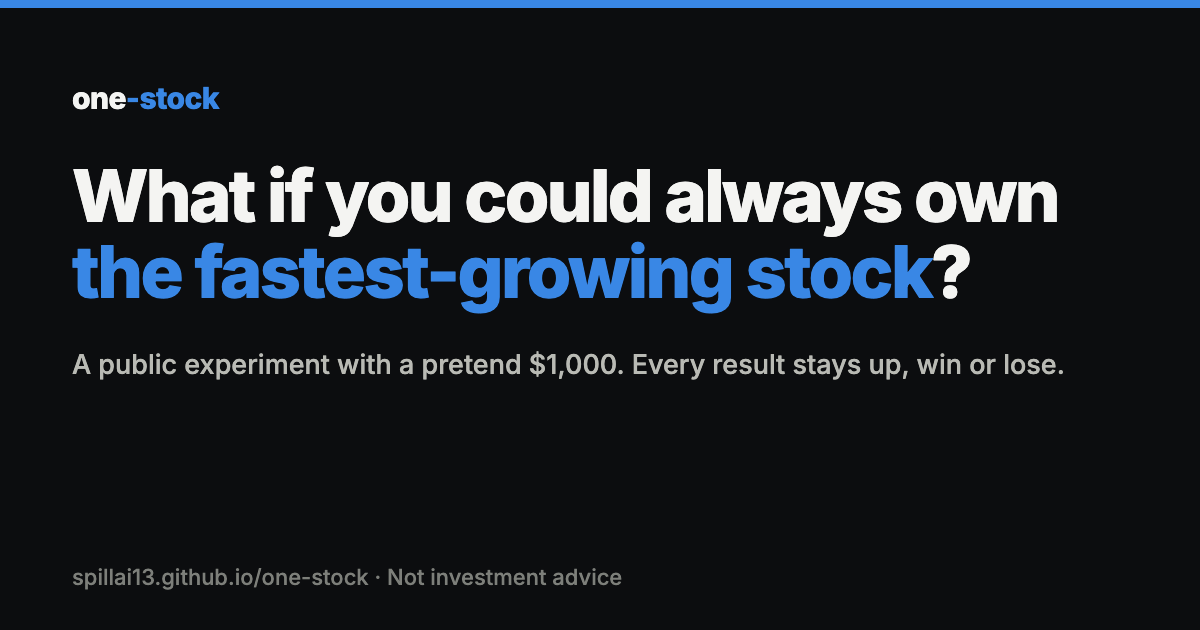
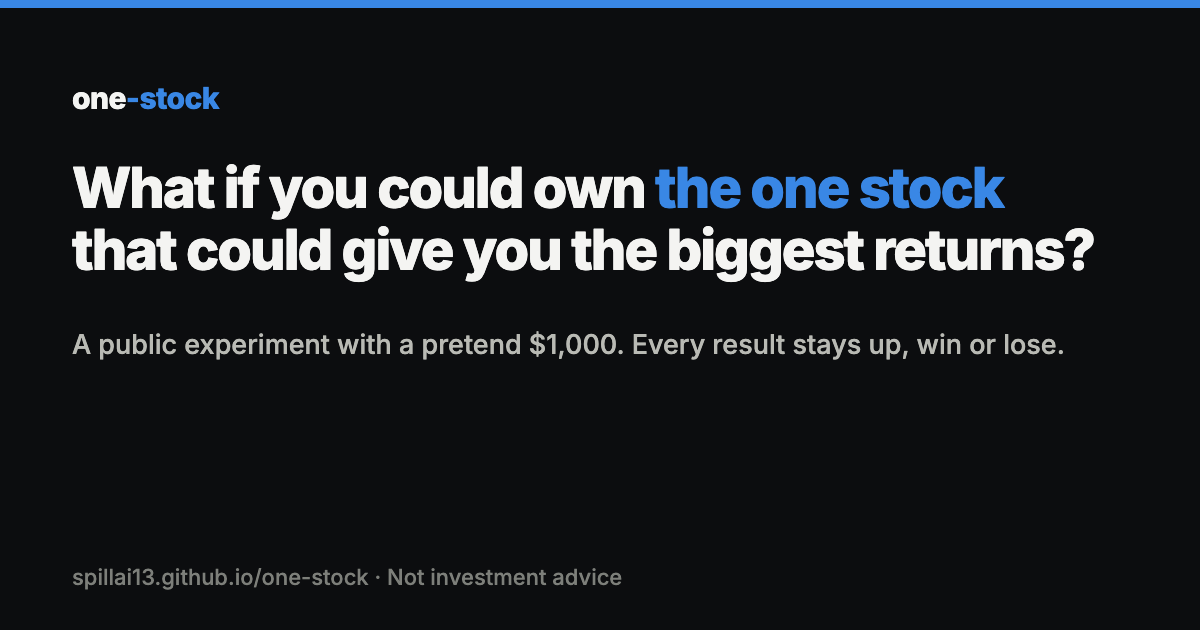
publish: 2026-10-05

Changed region(s): [[0.0617, 0.2413, 0.925, 0.6032]]

diff --git a/demo.html b/demo.html
@@ -7,14 +7,14 @@
 <meta name="description" content="A computer tests dozens of strategies against the stock market every day. The winners pick one stock. Win or lose, every result stays up. Not investment advice.">
 <meta property="og:type" content="website">
 <meta property="og:site_name" content="one-stock">
-<meta property="og:title" content="What if you could always own the fastest-growing stock? A computer tries, with a pretend $1,000.">
+<meta property="og:title" content="What if you could own the one stock that could give you the biggest returns? A computer tries, with a pretend $1,000.">
 <meta property="og:description" content="A computer tests dozens of strategies against the stock market every day. The winners pick one stock. Win or lose, every result stays up. Not investment advice.">
 <meta property="og:url" content="https://spillai13.github.io/one-stock/">
 <meta property="og:image" content="https://spillai13.github.io/one-stock/og.png">
 <meta property="og:image:width" content="1200">
 <meta property="og:image:height" content="630">
 <meta name="twitter:card" content="summary_large_image">
-<meta name="twitter:title" content="What if you could always own the fastest-growing stock? A computer tries, with a pretend $1,000.">
+<meta name="twitter:title" content="What if you could own the one stock that could give you the biggest returns? A computer tries, with a pretend $1,000.">
 <meta name="twitter:description" content="A computer tests dozens of strategies against the stock market every day. The winners pick one stock. Win or lose, every result stays up. Not investment advice.">
 <meta name="twitter:image" content="https://spillai13.github.io/one-stock/og.png">
 <link rel="preconnect" href="https://fonts.googleapis.com">
@@ -194,7 +194,7 @@ footer ul { padding-left: 18px; margin: 10px 0 0; } footer li { margin: 4px 0; }
   <!-- 1. The idea, in five seconds -->
   <div class="hero">
     <div class="eyebrow" id="eyebrow">A public experiment</div>
-    <h1 id="headline">What if you could always own <span class="accent">the fastest-growing stock</span>?</h1>
+    <h1 id="headline">What if you could own <span class="accent">the one stock</span> that could give you the biggest returns?</h1>
     <p class="lede" id="lede">This is a public experiment to see if a computer can find it. Every market day, it
       tests dozens of strategies against the stock market, and all the money goes to one winning stock:
       its best shot at the most growth in the least time.
@@ -408,7 +408,7 @@ const VOICE = /*VOICE*/{
     "Trade {k} of {min} is done: {tkr} {ret}. Officially no longer 'too early to tell'. Now it's just 'early'."
   ]
 }/*/VOICE*/;
-const SHARE_LINE = "What if you could always own the fastest-growing stock? A computer is trying it with a pretend $1,000, against the stock market.";
+const SHARE_LINE = "What if you could own the one stock that could give you the biggest returns? A computer is trying it with a pretend $1,000, against the stock market.";
 
 (function theme() {
   const root = document.documentElement;
@@ -440,7 +440,7 @@ function demoMode() {
     morning from ${fmtDate(DEMO.start)} to ${fmtDate(DEMO.end)}, seeing only what was known by then: the
     research results from the evening before, prices up to the previous close. Nothing here was called in advance,
     and the line is drawn dashed for that reason. <a href="index.html">The live record is here.</a></p>`;
-  $("headline").innerHTML = 'What if you could always own <span class="accent">the fastest-growing stock</span>?';
+  $("headline").innerHTML = 'What if you could own <span class="accent">the one stock</span> that could give you the biggest returns?';
   $("curve-label").textContent = "Growth of $1,000, replayed from";
   $("cards-title").textContent = "Each call, as the replay made it";
   $("cards-sub").textContent = "What the rules could see at 10:00 on each past morning, and what happened next.";
@@ -775,7 +775,7 @@ function drawCard(tr) {
 
   // Footer: the question, the link, the honest labels
   g.fillStyle = C.line; g.fillRect(64, 480, W - 128, 1);
-  text("What if you could always own the fastest-growing stock?", 64, 526, font(700, 28), C.ink);
+  text("What if you could own the one stock that could give you the biggest returns?", 64, 526, font(700, 24), C.ink);
   text(SITE.replace("https://", ""), 64, 564, font(600, 22, true), C.blue);
   const early = DATA.stats.closed < MIN_N ? `${DATA.stats.closed} of ${MIN_N} picks finished, too early to tell · ` : "";
   const asOf = p && p.asOf ? `As of ${fmtDate(p.asOf)} close · ` : "";

diff --git a/index.html b/index.html
@@ -7,14 +7,14 @@
 <meta name="description" content="A computer tests dozens of strategies against the stock market every day. The winners pick one stock. Win or lose, every result stays up. Not investment advice.">
 <meta property="og:type" content="website">
 <meta property="og:site_name" content="one-stock">
-<meta property="og:title" content="What if you could always own the fastest-growing stock? A computer tries, with a pretend $1,000.">
+<meta property="og:title" content="What if you could own the one stock that could give you the biggest returns? A computer tries, with a pretend $1,000.">
 <meta property="og:description" content="A computer tests dozens of strategies against the stock market every day. The winners pick one stock. Win or lose, every result stays up. Not investment advice.">
 <meta property="og:url" content="https://spillai13.github.io/one-stock/">
 <meta property="og:image" content="https://spillai13.github.io/one-stock/og.png">
 <meta property="og:image:width" content="1200">
 <meta property="og:image:height" content="630">
 <meta name="twitter:card" content="summary_large_image">
-<meta name="twitter:title" content="What if you could always own the fastest-growing stock? A computer tries, with a pretend $1,000.">
+<meta name="twitter:title" content="What if you could own the one stock that could give you the biggest returns? A computer tries, with a pretend $1,000.">
 <meta name="twitter:description" content="A computer tests dozens of strategies against the stock market every day. The winners pick one stock. Win or lose, every result stays up. Not investment advice.">
 <meta name="twitter:image" content="https://spillai13.github.io/one-stock/og.png">
 <link rel="preconnect" href="https://fonts.googleapis.com">
@@ -194,7 +194,7 @@ footer ul { padding-left: 18px; margin: 10px 0 0; } footer li { margin: 4px 0; }
   <!-- 1. The idea, in five seconds -->
   <div class="hero">
     <div class="eyebrow" id="eyebrow">A public experiment</div>
-    <h1 id="headline">What if you could always own <span class="accent">the fastest-growing stock</span>?</h1>
+    <h1 id="headline">What if you could own <span class="accent">the one stock</span> that could give you the biggest returns?</h1>
     <p class="lede" id="lede">This is a public experiment to see if a computer can find it. Every market day, it
       tests dozens of strategies against the stock market, and all the money goes to one winning stock:
       its best shot at the most growth in the least time.
@@ -408,7 +408,7 @@ const VOICE = /*VOICE*/{
     "Trade {k} of {min} is done: {tkr} {ret}. Officially no longer 'too early to tell'. Now it's just 'early'."
   ]
 }/*/VOICE*/;
-const SHARE_LINE = "What if you could always own the fastest-growing stock? A computer is trying it with a pretend $1,000, against the stock market.";
+const SHARE_LINE = "What if you could own the one stock that could give you the biggest returns? A computer is trying it with a pretend $1,000, against the stock market.";
 
 (function theme() {
   const root = document.documentElement;
@@ -440,7 +440,7 @@ function demoMode() {
     morning from ${fmtDate(DEMO.start)} to ${fmtDate(DEMO.end)}, seeing only what was known by then: the
     research results from the evening before, prices up to the previous close. Nothing here was called in advance,
     and the line is drawn dashed for that reason. <a href="index.html">The live record is here.</a></p>`;
-  $("headline").innerHTML = 'What if you could always own <span class="accent">the fastest-growing stock</span>?';
+  $("headline").innerHTML = 'What if you could own <span class="accent">the one stock</span> that could give you the biggest returns?';
   $("curve-label").textContent = "Growth of $1,000, replayed from";
   $("cards-title").textContent = "Each call, as the replay made it";
   $("cards-sub").textContent = "What the rules could see at 10:00 on each past morning, and what happened next.";
@@ -775,7 +775,7 @@ function drawCard(tr) {
 
   // Footer: the question, the link, the honest labels
   g.fillStyle = C.line; g.fillRect(64, 480, W - 128, 1);
-  text("What if you could always own the fastest-growing stock?", 64, 526, font(700, 28), C.ink);
+  text("What if you could own the one stock that could give you the biggest returns?", 64, 526, font(700, 24), C.ink);
   text(SITE.replace("https://", ""), 64, 564, font(600, 22, true), C.blue);
   const early = DATA.stats.closed < MIN_N ? `${DATA.stats.closed} of ${MIN_N} picks finished, too early to tell · ` : "";
   const asOf = p && p.asOf ? `As of ${fmtDate(p.asOf)} close · ` : "";
